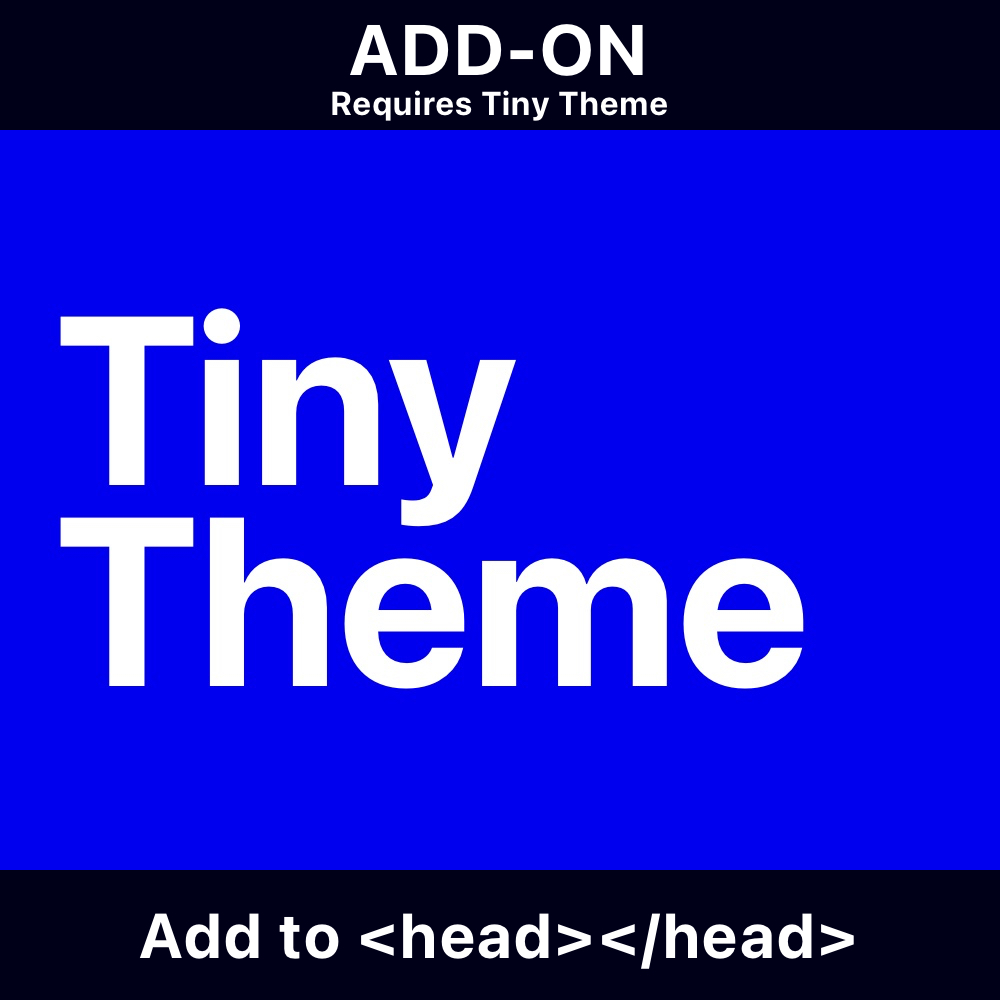
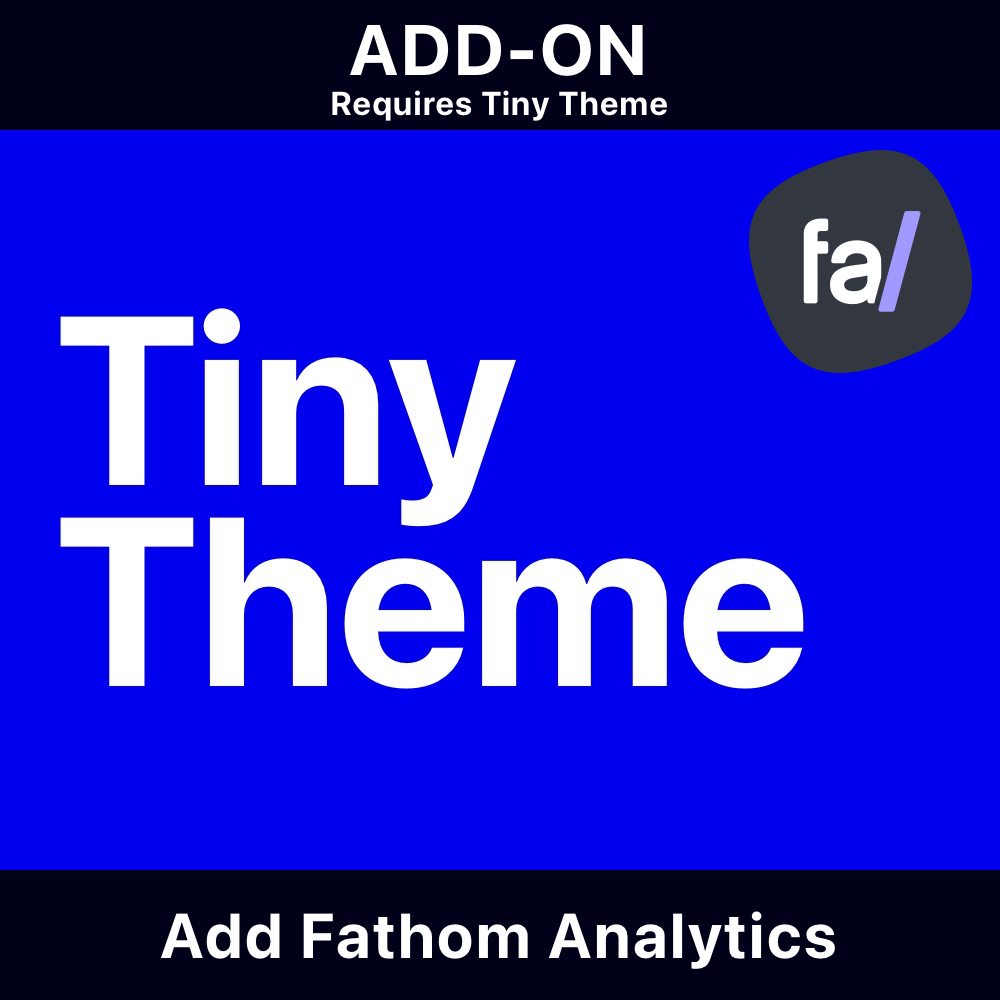
Fathom Analytics Added

Changed region(s): [[0.744, 0.124, 0.992, 0.372], [0.124, 0.899, 0.868, 0.992]]

diff --git a/layouts/partials/plugin_fathom_analytics.html b/layouts/partials/plugin_fathom_analytics.html
@@ -1,0 +1,2 @@
+<!-- Fathom Analytics for Tiny Theme -->
+<script src="https://cdn.usefathom.com/script.js" data-site="{{ $.Site.Params.fathom_analytics_plugin_html }}" defer></script>

diff --git a/README.md b/README.md
@@ -1,15 +1,15 @@
-# Tiny-theme-head
+# Tiny theme - Add Fathom Analytics
 
 **NOTE:** This plugin is designed for use with the Tiny Theme on Micro.blog. It may work with other themes, but is not officially supported.
 
 ![Tiny Theme Head Graphic](https://github.com/MattSLangford/Tiny-theme-head/blob/main/screenshot.jpg?raw=true)
 
 ### What it does
-Allows you to add code to the head of your site.
+Allows you to add Fathom analytics to your site.
 
 ### Installation and Setup
 1. Install from the Micro.blog plugins page
 2. Click Settings next to the newly installed plugin
-3. Add your code
+3. Add your Fathom site code and save
 
 That's it!
